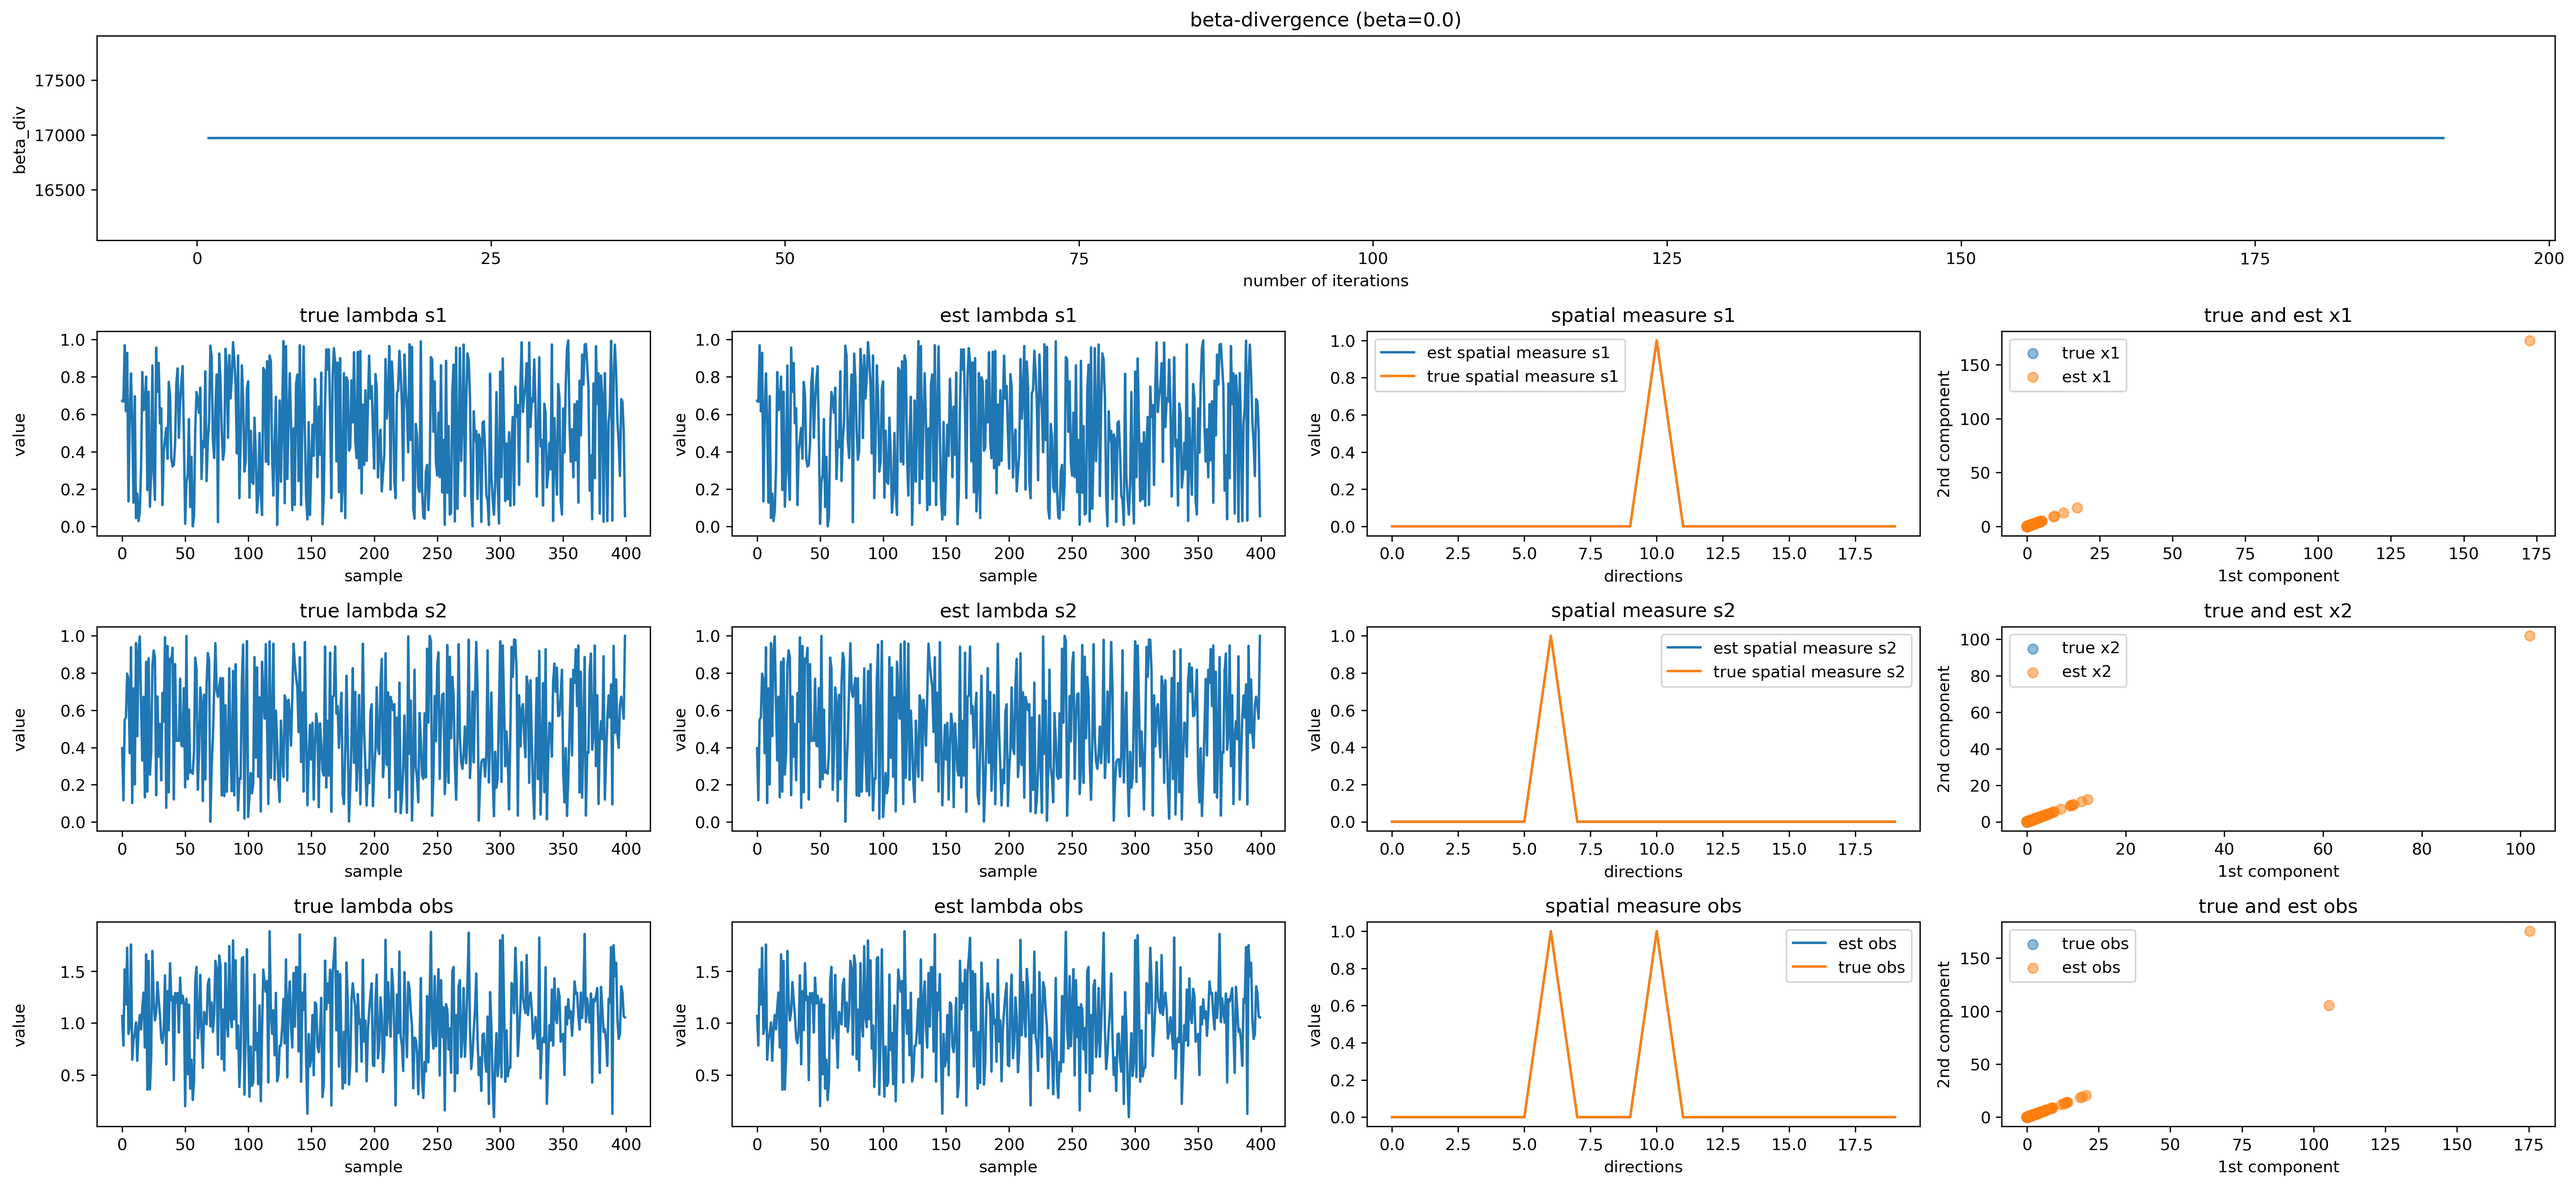
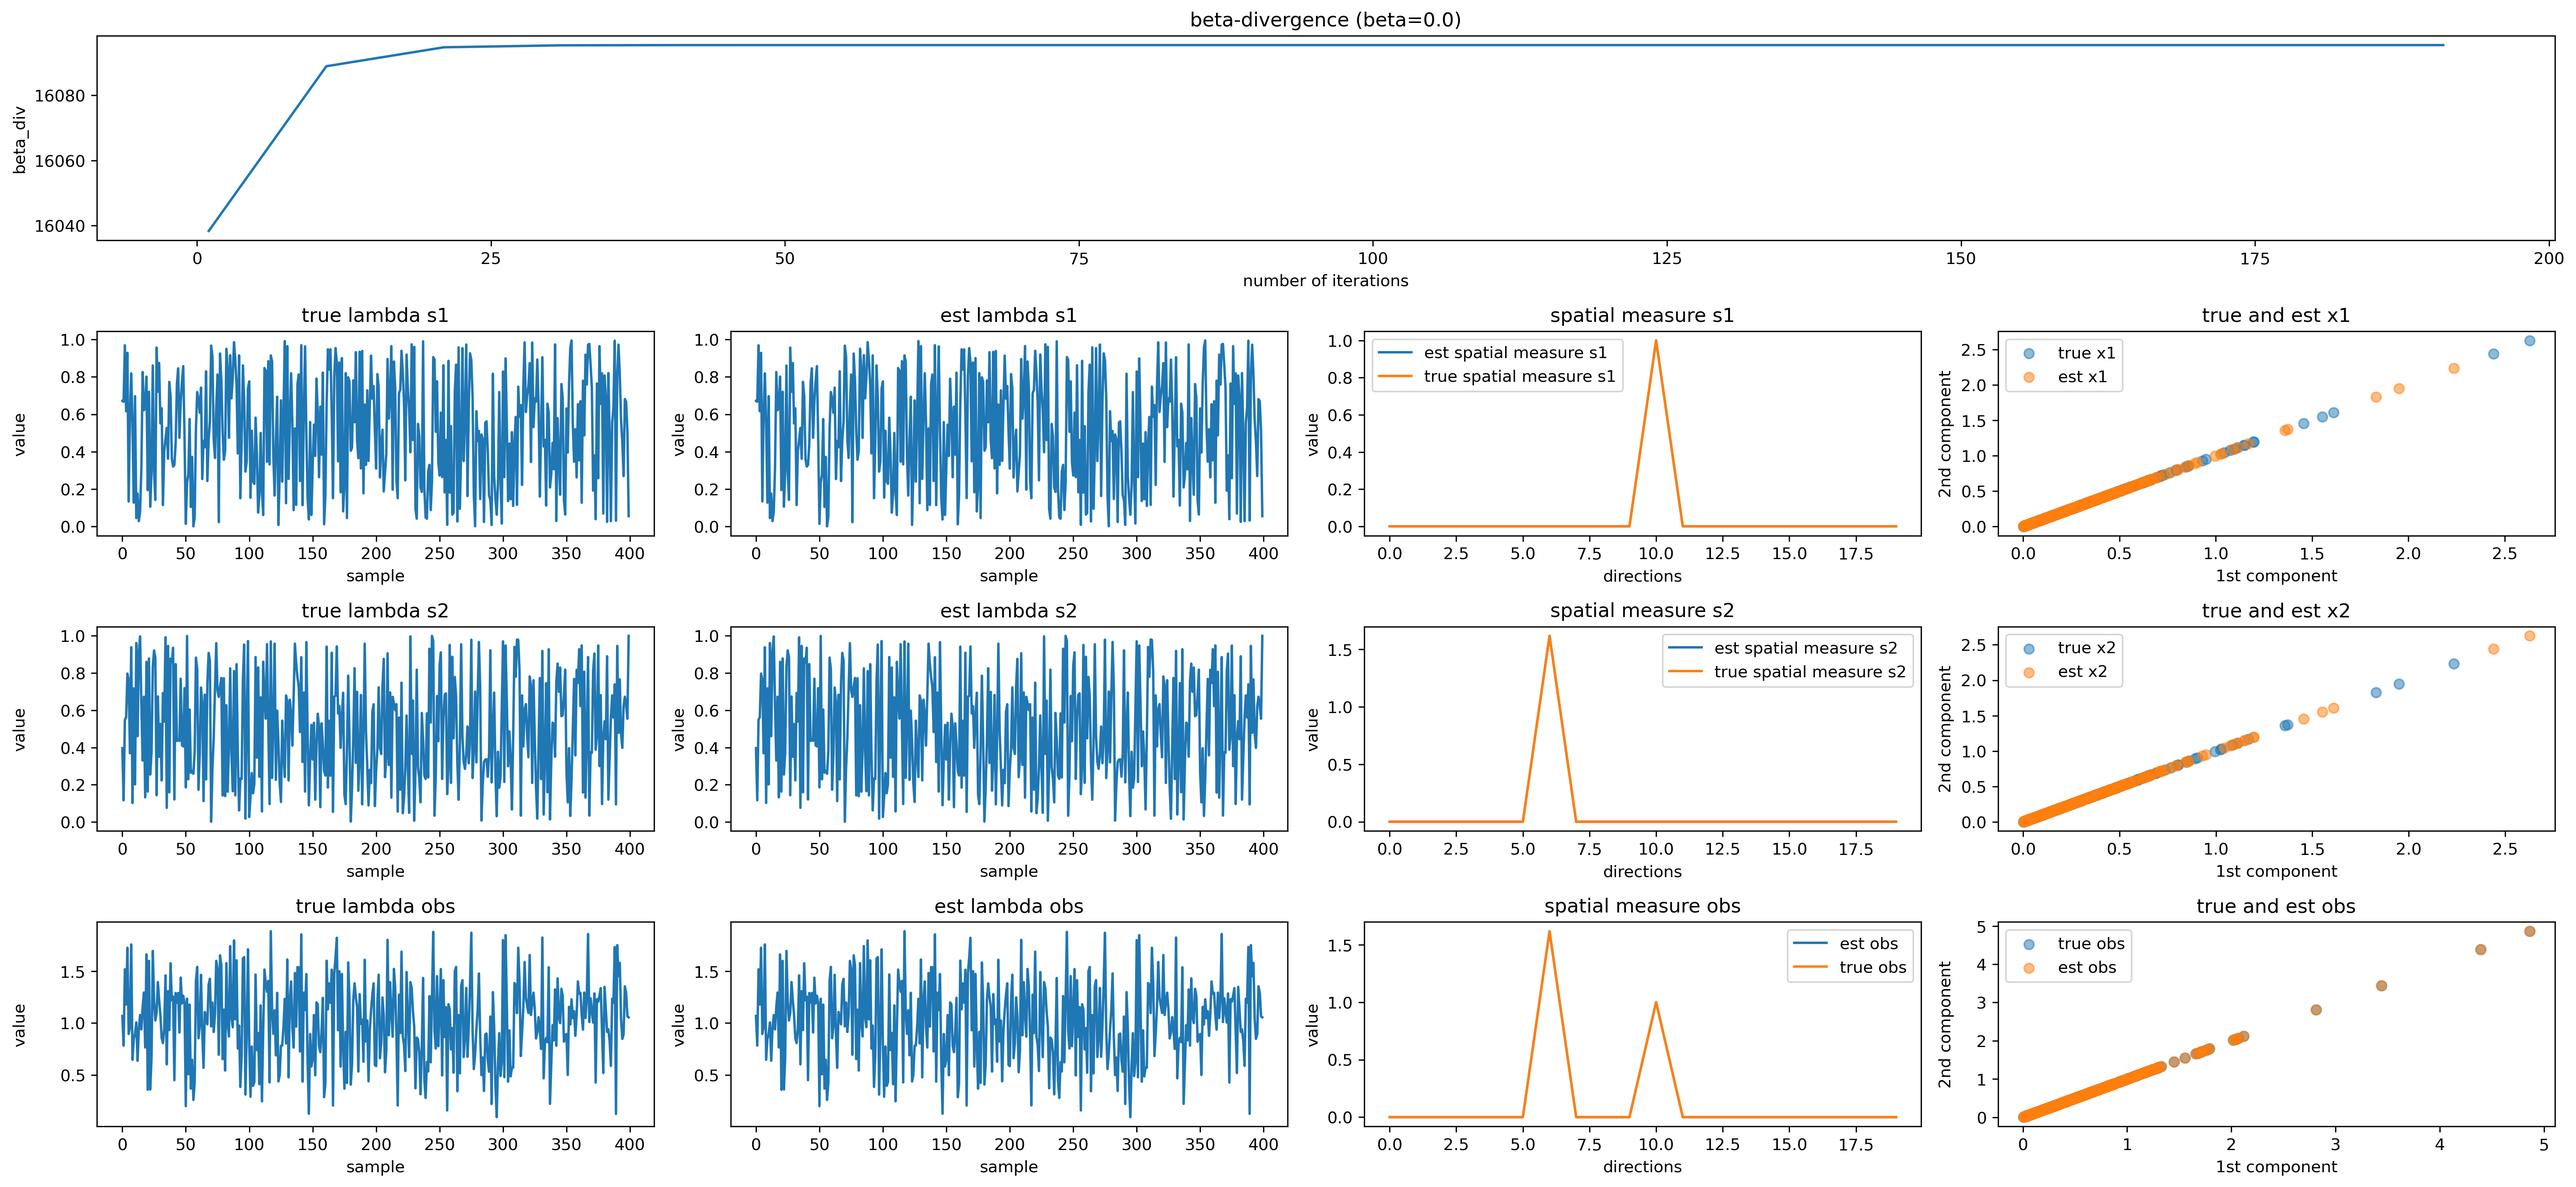
mincov technique (full oracle) works !

diff --git a/code/alpha_SpatialMNMF_toy.py b/code/alpha_SpatialMNMF_toy.py
@@ -315,7 +315,7 @@ class alpha_SpatialMNMF():
         if self.xp == "cp":
             InvP_NTMMM = self.xp.array(InvP_NTMMM)
             Inv_TMMM = self.xp.array(Inv_TMMM)
-        Id_TMM = self.xp.ones((self.n_sample, self.n_mic, self.n_mic)) * (self.xp.eye(self.n_mic)/self.n_source)[None]
+        Id_TMM = self.xp.ones((self.n_sample, self.n_mic, self.n_mic)) * (self.xp.eye(self.n_mic))[None]
         self.La_TMM += (Inv_TMMM * (self.W_NTMM.sum(axis=0) - Id_TMM)[:, :, None]).sum(axis=-1)
 
     def update_W(self):
@@ -333,18 +333,19 @@ class alpha_SpatialMNMF():
 
 
     def E_Step_cov(self):
-        self.nE_it = 800
+        self.nE_it = 80
         # Init variables
         self.W_NTMM = self.xp.ones((self.n_source, self.n_sample, self.n_mic, self.n_mic)).astype(self.xp.complex)
         self.W_NTMM *= (self.xp.eye(self.n_mic)/self.n_source)[None, None]
+        import ipdb; ipdb.set_trace()
         self.La_TMM = self.xp.zeros((self.n_sample, self.n_mic, self.n_mic)).astype(self.xp.complex)
         self.P_NTMMM = self.rand_s.rand(self.n_source, self.n_sample, self.n_mic, self.n_mic, self.n_mic).astype(self.xp.complex)
         self.ThTh_MMP = (self.Theta_PM.T[None] * self.Theta_PM.T.conj()[:, None])
-
         for it in range(self.nE_it):
             self.update_P()
             self.update_Lagrange()
             self.update_W()
+        import ipdb; ipdb.set_trace()
         self.Y_NTM = (self.W_NTMM.conj() * self.X_TM[None, :, None]).sum(axis=-1)
 
     def E_Step_linear(self):
@@ -382,7 +383,6 @@ class alpha_SpatialMNMF():
                       self.SM_NP[:, None, None, None]).sum(axis=-1)
         Mask_NTMM *= 2. * self.xp.pi ** (self.n_mic) / np.math.factorial(self.n_mic)
         Mask_NTMM /= self.n_Th
-        import ipdb; ipdb.set_trace()
         self.Y_NTM = (Mask_NTMM * self.X_TM[None, :, None]).sum(axis=-1)
 
 
@@ -477,7 +477,7 @@ class alpha_SpatialMNMF():
             self.save_separated_signal(save_path+"{}-{}-{}".format(self.method_name, self.filename_suffix, it + 1))
 
         # separation of alpha-stable random vector
-        self.E_Step_linear()
+        self.E_Step_cov()
         if save_parameter:
             self.save_parameter(save_path + "{}-parameters-{}.npz".format(self.method_name, self.filename_suffix))
 

diff --git a/code/plot_results_toy.py b/code/plot_results_toy.py
@@ -87,6 +87,8 @@ ax.scatter(np.abs(Y_NTM[..., 0]).sum(axis=0), np.abs(Y_NTM[..., 1]).sum(axis=0),
 ax.legend()
 ax.set(xlabel='1st component', ylabel='2nd component', title='true and est obs')
 
+print("{} % of Spatial Measure accuracy error".format(100. * (np.abs(SM_true_NP-SM_NP) / np.abs(SM_true_NP+ 1e-14)).mean()))
+print("{} % of PSD accuracy error".format(100. * (np.abs(lambda_true_NT-lambda_NT) / np.abs(lambda_true_NT)).mean()))
 print("{} % of accuracy error".format(100. * (np.abs(Y_true_NTM-Y_NTM) / np.abs(Y_true_NTM)).mean()))
 import ipdb; ipdb.set_trace()
 fig.align_labels()
